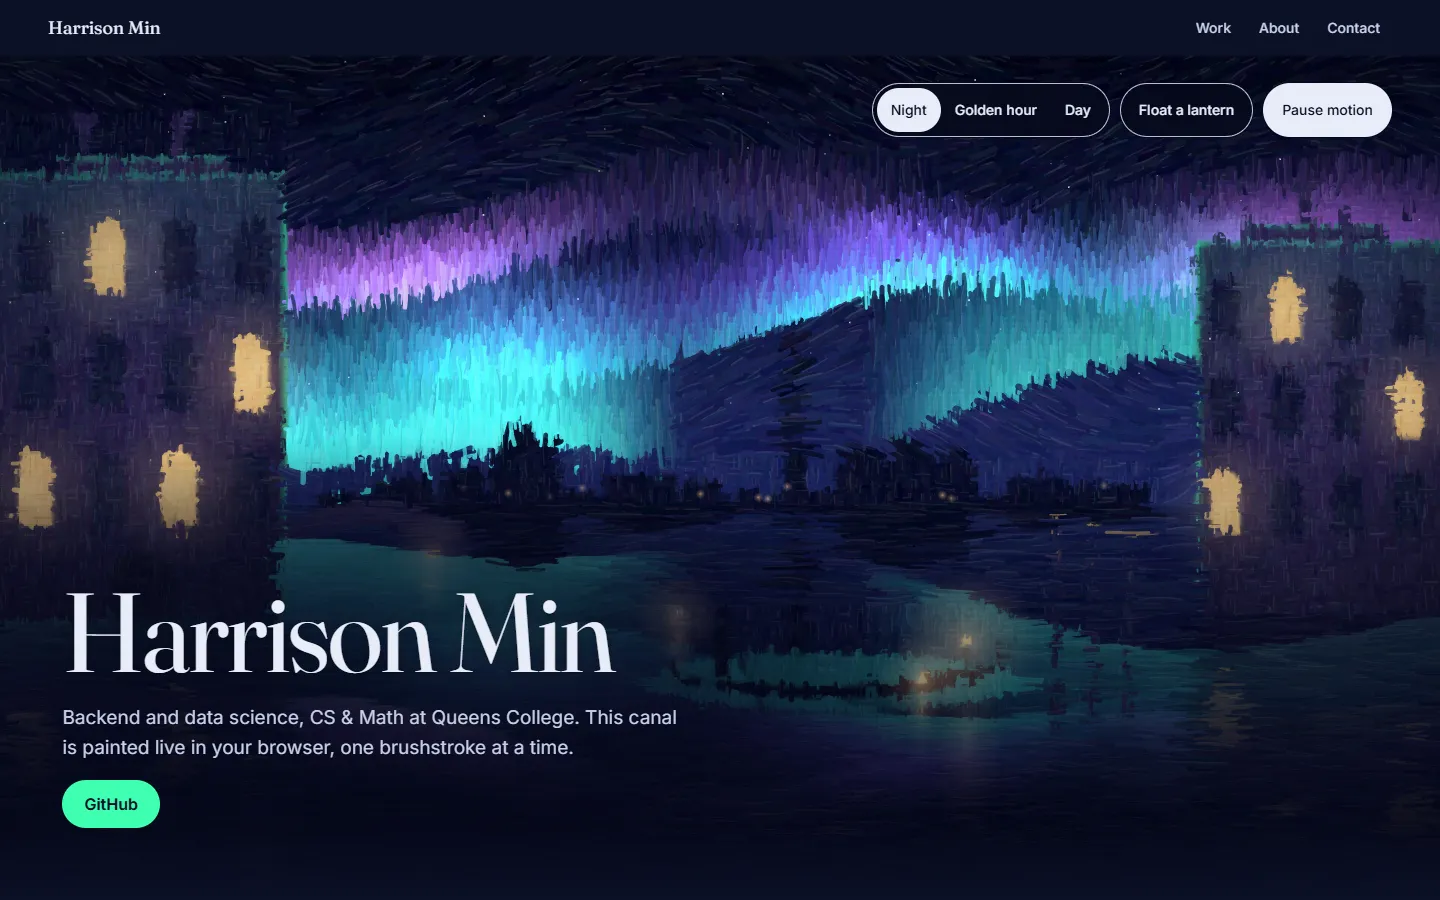
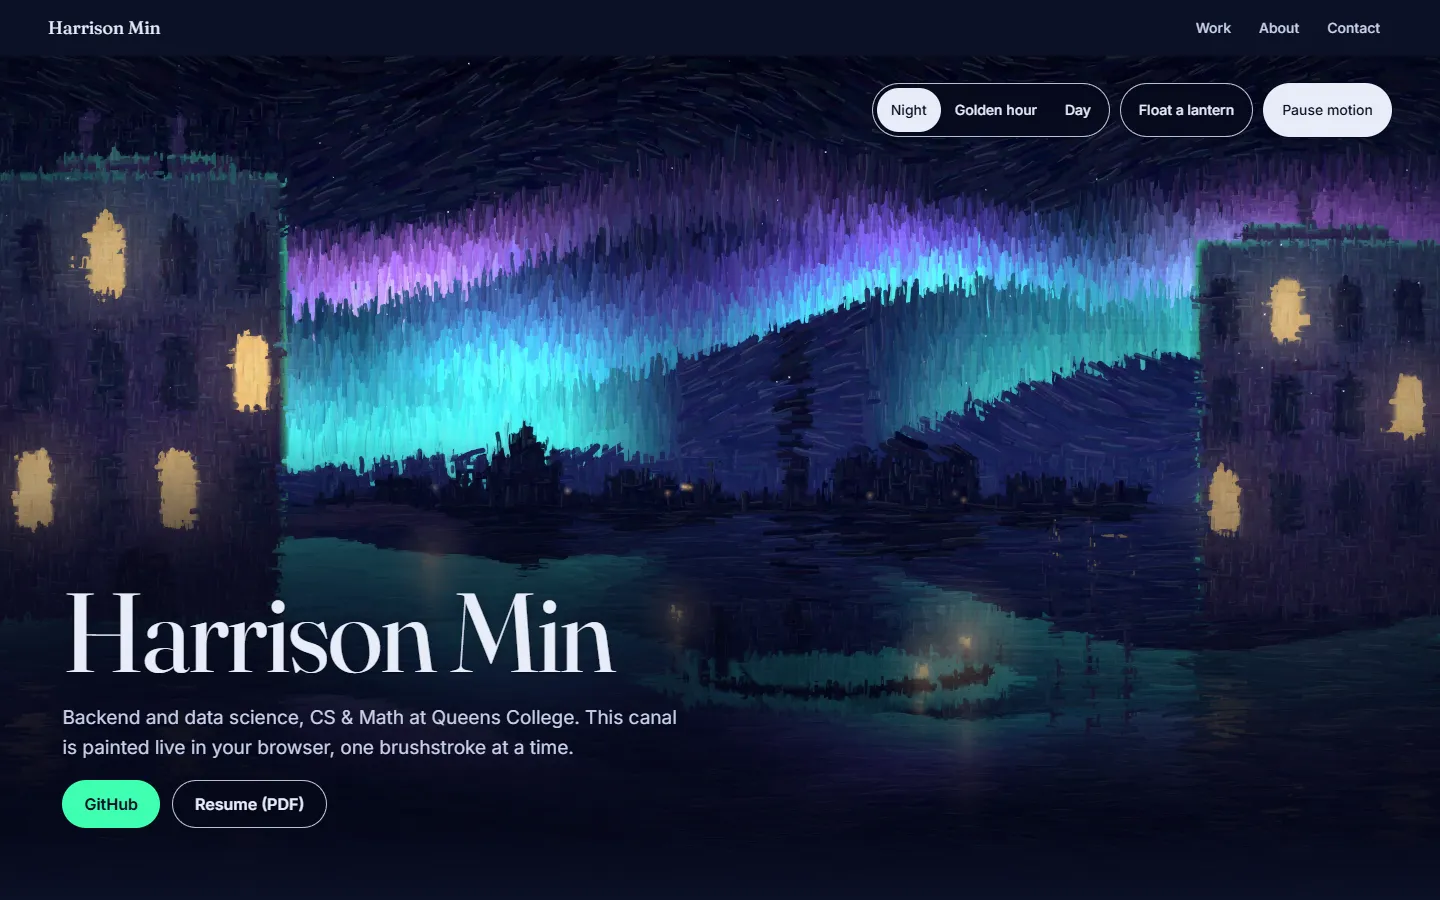
feat: link the resume from the hero and footer (#40)

diff --git a/src/components/painter/PaintedHero.tsx b/src/components/painter/PaintedHero.tsx
@@ -4,24 +4,14 @@ import { useEffect, useEffectEvent, useRef, useState, type MouseEvent, type Reac
 import { resolvePaused, setUserPaused, usePrefersReducedMotion, useUserPaused } from "../motion";
 import { createPainter, type Painter } from "./engine";
 import { MODES, type ModeId } from "./palettes";
+import { pillEdge } from "./pill";
 
 /*
- * Pill buttons over the painting. `aria-pressed:` styles apply only when
- * aria-pressed="true", so the visible state always matches what screen
- * readers announce.
- *
- * The pill edge has two tones for the same reason as the focus ring in
- * globals.css: a light border shows against the dark Night sky, and a 1px
- * dark ring (`ring-1`, a box-shadow) outside it shows against the bright
- * Day sky. `focus-visible:shadow-focus` keeps the focus ring's dark bands,
- * which the ring utility would otherwise replace.
- *
- * Against a mid-tone part of the painting, neither tone reaches 3:1 unless
- * the two are at least 9:1 apart, so the border is 80% starlight (it blends
- * with the dark fill behind it) and the ring is 85% deep.
+ * Pill buttons over the painting, edged with pillEdge (pill.ts explains its
+ * two tones). `aria-pressed:` styles apply only when aria-pressed="true", so
+ * the visible state always matches what screen readers announce.
  */
 const pressedStyle = "aria-pressed:bg-starlight aria-pressed:text-night";
-const pillEdge = "border border-starlight/80 bg-deep/70 ring-1 ring-deep/85 backdrop-blur-md";
 const chipStyle = `min-h-12 cursor-pointer rounded-full px-3 text-sm font-medium text-starlight focus-visible:shadow-focus sm:px-[18px] ${pillEdge} ${pressedStyle}`;
 const segmentStyle = `min-h-11 min-w-11 cursor-pointer rounded-full px-3 text-sm whitespace-nowrap font-medium text-starlight sm:px-3.5 ${pressedStyle}`;
 
@@ -203,7 +193,8 @@ export default function PaintedHero({ titleId, children }: PaintedHeroProps) {
         scrim's -z-10 puts it behind the text but still above the painting.
         The text shadow covers brief bright spots (a lantern or sun glint
         drifting behind a letter) that the scrim alone would let through.
-        Links are left out: the GitHub button has dark text on its own fill.
+        Links are left out: each has its own fill behind its text (dark text
+        on aurora for GitHub, starlight on the dark pill for Resume).
       */}
       <div className="relative isolate flex max-w-[620px] flex-col gap-[18px] sm:ml-[clamp(4px,1vw,16px)] [text-shadow:0_1px_2px_rgb(5_8_26/0.6),0_0_16px_rgb(5_8_26/0.45)] [&_a]:[text-shadow:none]">
         {/*

diff --git a/src/app/page.tsx b/src/app/page.tsx
@@ -1,6 +1,7 @@
 import About from "@/components/about/About";
 import Collection from "@/components/collection/Collection";
 import PaintedHero from "@/components/painter/PaintedHero";
+import { pillEdge } from "@/components/painter/pill";
 import { SITE } from "./site";
 
 // The page stays a Server Component. PaintedHero is a Client Component, and
@@ -25,12 +26,26 @@ export default function Home() {
           Backend and data science, CS &amp; Math at Queens College. This canal is painted live
           in your browser, one brushstroke at a time.
         </p>
+        {/*
+          GitHub is the primary action, filled with aurora. Resume is the
+          secondary one: the same size, but an outline pill like the hero's
+          controls (pillEdge), so it reads as the quieter of the two. Both
+          open in the same tab, like every link on the site. The footer's
+          resume link says "Google Drive" too; here the short label keeps the
+          row on one line on a 320px phone.
+        */}
         <div className="flex flex-wrap gap-3">
           <a
             href={SITE.github}
             className="inline-flex min-h-12 items-center rounded-full bg-aurora px-[22px] font-semibold text-night"
           >
             GitHub
+          </a>
+          <a
+            href={SITE.resume}
+            className={`inline-flex min-h-12 items-center rounded-full px-[22px] font-semibold text-starlight focus-visible:shadow-focus ${pillEdge}`}
+          >
+            Resume (PDF)
           </a>
         </div>
       </PaintedHero>

diff --git a/src/components/painter/pill.ts b/src/components/painter/pill.ts
@@ -1,0 +1,22 @@
+/*
+ * The edge of a pill over the painting, shared by the hero's controls
+ * (PaintedHero.tsx) and its outline links (page.tsx).
+ *
+ * It lives in its own plain module, not in PaintedHero.tsx, because that
+ * file is "use client": a Server Component like page.tsx that imports from
+ * it gets a client reference for each export, not the value, so the string
+ * wouldn't arrive.
+ *
+ * The edge has two tones for the same reason as the focus ring in
+ * globals.css: a light border shows against the dark Night sky, and a 1px
+ * dark ring (`ring-1`, a box-shadow) outside it shows against the bright
+ * Day sky. Anything using it needs `focus-visible:shadow-focus` to keep the
+ * focus ring's dark bands, which the ring utility would otherwise replace.
+ *
+ * Against a mid-tone part of the painting, neither tone reaches 3:1 unless
+ * the two are at least 9:1 apart, so the border is 80% starlight (it blends
+ * with the dark fill behind it) and the ring is 85% deep. The dark fill also
+ * sits behind the pill's text, so starlight text stays readable over any
+ * part of the painting.
+ */
+export const pillEdge = "border border-starlight/80 bg-deep/70 ring-1 ring-deep/85 backdrop-blur-md";

diff --git a/src/components/layout/SiteFooter.tsx b/src/components/layout/SiteFooter.tsx
@@ -8,7 +8,7 @@ const linkStyle =
  * The site footer, on every page: how to reach me, what the site is built
  * with, and the copyright line. `id="contact"` is the target of the nav's
  * Contact link. Plain links, no new tabs: the browser's back button
- * returns here.
+ * returns here, from the resume on Google Drive too.
  */
 export default function SiteFooter() {
   return (
@@ -31,6 +31,12 @@ export default function SiteFooter() {
             <li>
               <a href={SITE.linkedin} className={linkStyle}>
                 LinkedIn
+              </a>
+            </li>
+            <li>
+              {/* The text says where the link goes: a PDF, opened in Google Drive's viewer. */}
+              <a href={SITE.resume} className={linkStyle}>
+                Resume (PDF, Google Drive)
               </a>
             </li>
           </ul>

diff --git a/src/app/site.ts b/src/app/site.ts
@@ -9,6 +9,13 @@ export const SITE = {
   github: "https://github.com/hmin6",
   linkedin: "https://www.linkedin.com/in/harrisonmin",
   /**
+   * My resume, a PDF on Google Drive (not in the repo, so its version
+   * history stays private). A new version is uploaded with Drive's "Manage
+   * versions", which keeps this link, so the site never needs to change.
+   * See "Updating the resume" in the README.
+   */
+  resume: "https://drive.google.com/file/d/1ve0UoV5BwgIxNRvgjIMYivnx1B1CaYfT/view",
+  /**
    * The copyright year. A constant rather than `new Date().getFullYear()`:
    * with Cache Components, reading the clock while prerendering fails the
    * build (the page is rendered once at build time, so "now" isn't known).

diff --git a/docs/devlog/13-resume-link.md b/docs/devlog/13-resume-link.md
@@ -1,0 +1,70 @@
+# #13 Add resume PDF and contact links
+Date: 2026-11-10
+PR: #40
+
+## What I did
+Linked my resume from two places:
+- **Hero:** a **Resume (PDF)** button beside GitHub. GitHub stays the primary action, filled with aurora. Resume is the same size but an outline pill, like the hero's controls, so it reads as the quieter of the two.
+- **Footer:** a fourth Contact link, **Resume (PDF, Google Drive)**.
+
+The email, GitHub, and LinkedIn links were already in the footer from #7, so this issue only needed the resume. I left it out of the header nav and About. A fourth nav link would likely push phones into the Menu button, and the hero puts the resume on the first screen anyway.
+
+I also added an "Updating the resume" section to the README, extended `measure:hero` to measure the new button, and retook the README screenshot, which now shows it.
+
+## Why
+Recruiters should be able to get to my resume from the first screen without hunting for it. The issue originally asked for the PDF in `public/`. I host it on Google Drive instead, so its version history stays private: anything committed to a public repo stays in its history forever, even after I replace the file.
+
+## How it works
+- **One URL.** `SITE.resume` in `src/app/site.ts` holds the Drive `/view` link, without `?usp=sharing` (that only records how the link was shared). The hero and footer both read it.
+- **Updating without a deploy.** Drive's Manage versions → Upload new version keeps the file's ID, so the link and the site never change. Only people with edit access can see earlier versions. The README has the steps.
+- **Link text says where it goes.** "Resume (PDF)" in the hero and "Resume (PDF, Google Drive)" in the footer. The visible text is the accessible name, so screen readers announce the same thing people see. The hero keeps the shorter label so the row fits on one line at 320px.
+- **Same tab.** No `target="_blank"`, matching the footer's existing rule: Back returns to the site.
+- **A shared pill style.** The pill edge (light border, dark ring, translucent dark fill) moved from `PaintedHero.tsx` into `src/components/painter/pill.ts`. `page.tsx` is a Server Component, and a Server Component that imports from a `"use client"` file gets a client reference for each export, not its value, so the class string wouldn't have arrived.
+- **Measuring it.** The Resume button sits over the painting, so `measure:hero` now treats it like the other controls:
+  - When the script hides text for the background screenshot, hero links keep their fill and lose only their text, so each link's text is measured against its own pill.
+  - Hero links with a border count as pills for the edge check.
+  - Two new checks: the link row must stay inside the hero's padding with at least 12px between links, and every hero control whose text was measured must also have had its focus ring measured.
+- **Results** (lightest 1%, worst across 7 viewports × 3 modes):
+
+  | | Measured | Bar |
+  |---|---|---|
+  | Text | 16.46:1 | 4.5:1 |
+  | Edge | 8.84:1 | 3:1 |
+  | Focus ring | 12.61:1 | 3:1 |
+
+  The row is on one line everywhere, and `--page` passes on desktop, phone, and 320px.
+
+## Problems I hit
+- **The script hid links completely.** Before the background screenshot, `measure:hero` set hero links to `visibility: hidden`. That was fine for the solid GitHub button, but it would also have hidden the Resume pill's own fill and edge. Its text would then have been measured against the bare painting, and its edge not at all. Now links only lose their text color, like the buttons.
+- **The browser dropped out mid-run.** The first full run lost its connection to headless Edge during the iPhone SE Day pass, after a 6.5 s screenshot. A rerun of the SE and 320px viewports passed, so it wasn't caused by the change.
+- **A half-written build.** I piped a second `npm run build` through `head` to read its first lines. That ended the build early and left `.next` without a `BUILD_ID`, so `next start` refused to run. A full rebuild fixed it.
+- **A stray `package-lock.json` in my home folder** makes Next.js print a `turbopack.root` warning on every build. It's harmless, and unrelated to this change.
+
+## What I learned
+- **Where a file lives decides who sees its history.** A PDF committed to a public repo
+  keeps every old version visible in the history. Hosting the resume on Google Drive and
+  replacing it with "Manage versions" keeps the same link while only I see past
+  versions. The LaTeX source lives in a separate private repo.
+- **Server components can't borrow values from client files.** Importing from a
+  `"use client"` module in a server component gives a reference to client code, not the
+  value itself. The shared pill style moved into its own plain module, `pill.ts`, so the
+  page and the hero can both use it.
+- **New controls need their own measurements.** The script hid the hero's links before
+  photographing the painting behind them, so it would have hidden the Resume pill too.
+  Now links lose only their text, so its text is measured against its own fill. It
+  scored far above the bars (16.46:1 for text, against 4.5:1, and at least 8.84:1 for
+  its edge) and barely changed between modes, because it sits low in the hero over the
+  dark text scrim. The top controls sit over the sky: their text still passes easily,
+  but their edges and focus rings get down to about 3.2:1 and 3.9:1, close to the 3:1
+  bar.
+- **Put the most important link where people look first.** For most visitors the
+  resume matters most, so it sits in the hero next to GitHub, in an outline style so
+  GitHub stays the primary action. A fourth nav link would probably have pushed phones
+  into the Menu (I estimated that from text widths but didn't build it), and a sentence
+  in About felt tacked on. The footer has it too.
+- **Say what a link does before people click it.** "Resume (PDF)" says it's a PDF, and
+  the footer's "Resume (PDF, Google Drive)" also says it leaves the site. Both open in
+  the same tab, so Back returns to the site.
+- **A one-off failure isn't a result.** One measurement run lost its connection to the
+  headless browser partway through. A rerun of the affected sizes passed, so I treated
+  it as a fluke. If it happens again, it gets its own issue.

diff --git a/README.md b/README.md
@@ -5,7 +5,7 @@ canal under the aurora, painted live in your browser one brushstroke at a time.
 
 **Live site: [harrisonmin.vercel.app](https://harrisonmin.vercel.app)**
 
-![The site's hero at night: a painted Venetian-style canal under teal and violet aurora, with the heading "Harrison Min", a short intro, a GitHub button, and controls for time of day, lanterns, and motion](docs/images/hero-night.webp)
+![The site's hero at night: a painted Venetian-style canal under teal and violet aurora, with the heading "Harrison Min", a short intro, GitHub and Resume (PDF) buttons, and controls for time of day, lanterns, and motion](docs/images/hero-night.webp)
 
 ## Highlights
 
@@ -65,6 +65,27 @@ JSON report to `hero-measurements/` (git-ignored). Optional flags (`--still`,
 `--page`, `--rotation`, `--perf`, and `--readme-shot` to retake the screenshot
 above) are documented at the top of
 [`scripts/measure-hero.mjs`](scripts/measure-hero.mjs).
+
+## Updating the resume
+
+The resume is a PDF on Google Drive, not a file in this repo, so its version
+history stays private. Its link is `SITE.resume` in
+[`src/app/site.ts`](src/app/site.ts), used by the hero's Resume (PDF) button and
+the footer.
+
+To publish a new version:
+
+1. In Google Drive, right-click the resume and choose **Manage versions** (under
+   **File information** in newer versions of Drive).
+2. Choose **Upload new version** and pick the new PDF.
+
+The file keeps its ID, so the link stays the same and the site needs no commit or
+deploy. Only people with edit access can see earlier versions. Afterward, open the
+link in a private window to check that it still opens without signing in.
+
+The PDF is compiled from LaTeX, so it isn't a tagged PDF: it has no tags for
+headings or reading order, and screen readers get only its text, in the order the
+viewer guesses.
 
 ## How I work
 
